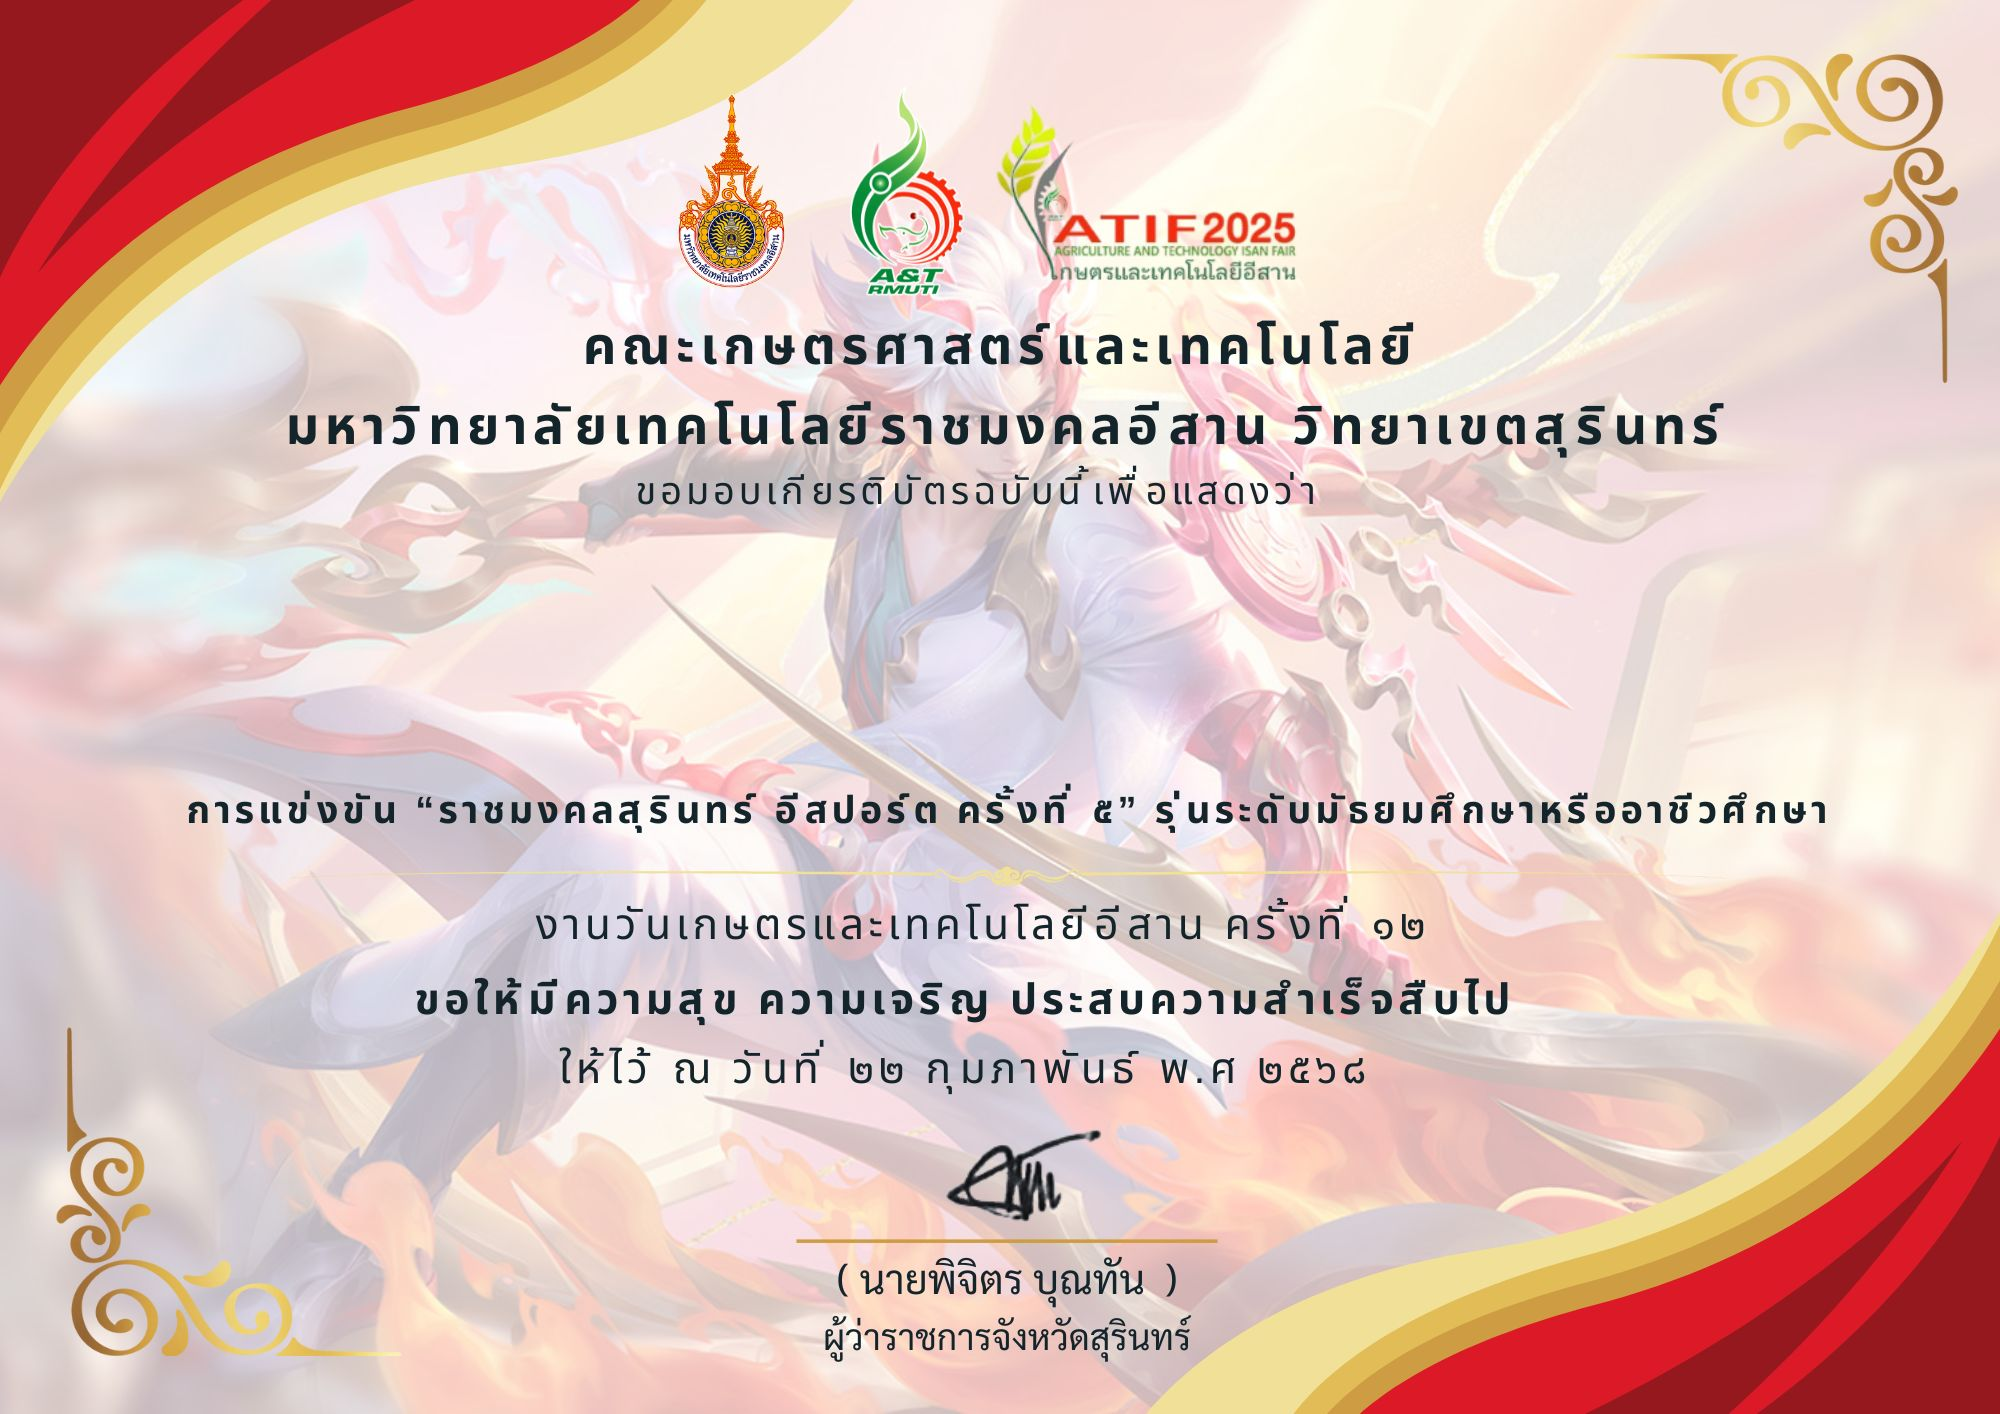
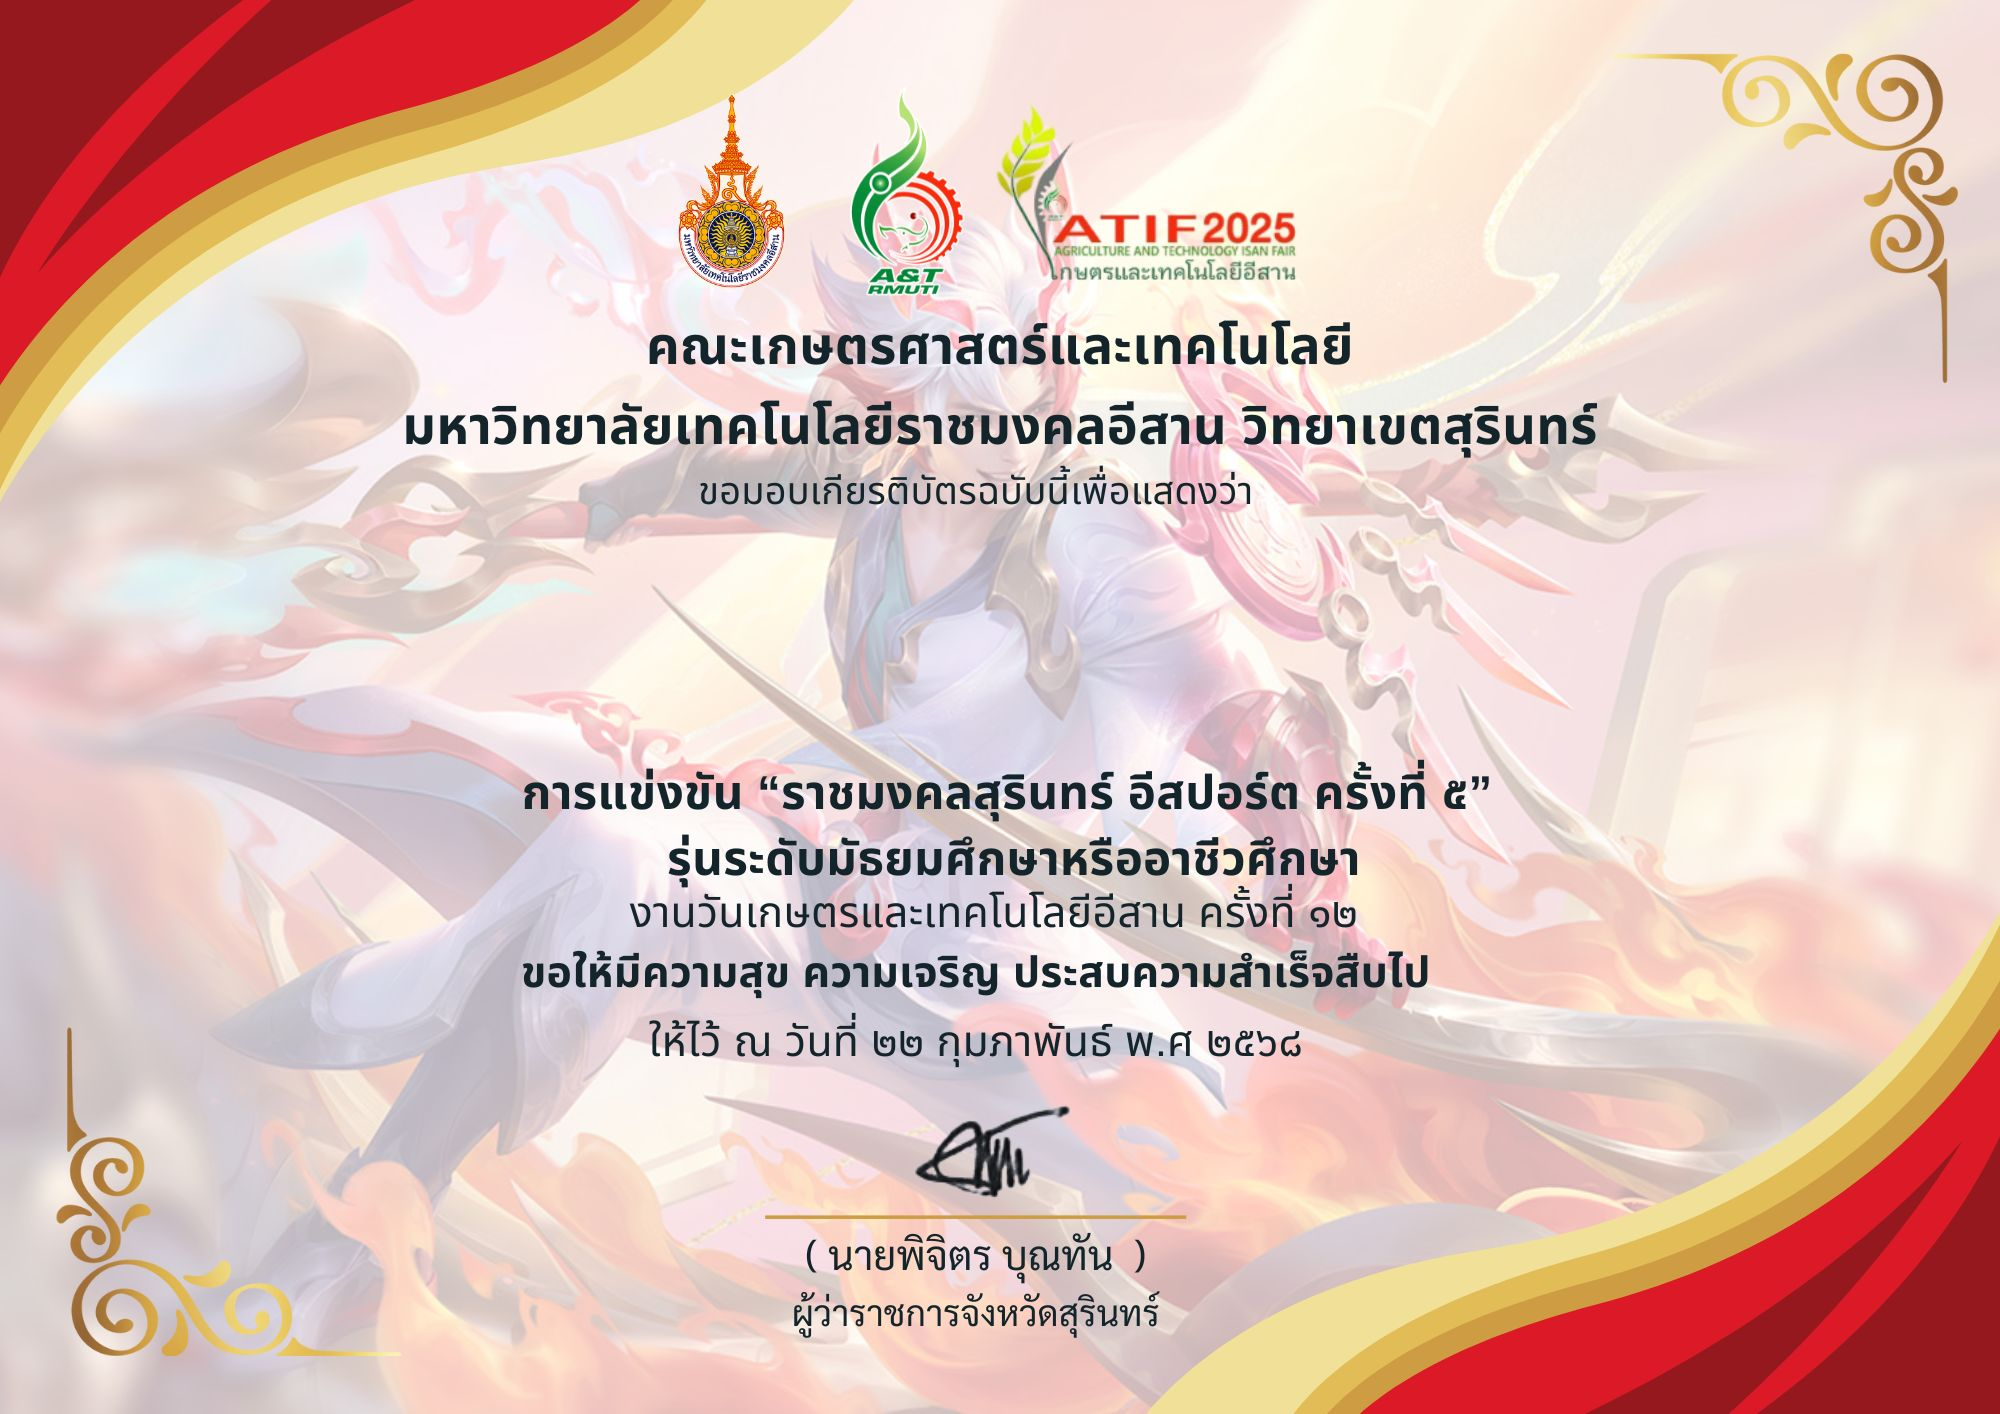
update

Changed region(s): [[0.093, 0.529, 0.93, 0.9646], [0.124, 0.2178, 0.868, 0.3734]]

diff --git a/backend-edit.php b/backend-edit.php
@@ -51,16 +51,16 @@ if ($_SERVER["REQUEST_METHOD"] == "POST") {
 
                 <div class="mb-3">
                 <label class="form-label">หัวข้อเกียรติบัตร</label>
-                <select name="certificate_type" class="form-control" required>
+                <select name="detail" class="form-control" required>
                     <option value="" disabled selected>กรุณาเลือกหัวข้อเกียรติบัตร</option>
-                    <option value="รางวัลชนะเลิศ" <?= isset($participant['certificate_type']) && $participant['certificate_type'] == 'รางวัลชนะเลิศ' ? 'selected' : '' ?>>รางวัลชนะเลิศ</option>
-                    <option value="รางวัลรองชนะเลิศ อันดับที่ 1" <?= isset($participant['certificate_type']) && $participant['certificate_type'] == 'รางวัลรองชนะเลิศ อันดับที่ 1' ? 'selected' : '' ?>>รางวัลรองชนะเลิศ อันดับที่ 1</option>
-                    <option value="รางวัลรองชนะเลิศ อันดับที่ 2" <?= isset($participant['certificate_type']) && $participant['certificate_type'] == 'รางวัลรองชนะเลิศ อันดับที่ 2' ? 'selected' : '' ?>>รางวัลรองชนะเลิศ อันดับที่ 2</option>
-                    <option value="รางวัลรองชนะเลิศ อันดับที่ 3" <?= isset($participant['certificate_type']) && $participant['certificate_type'] == 'รางวัลรองชนะเลิศ อันดับที่ 3' ? 'selected' : '' ?>>รางวัลรองชนะเลิศ อันดับที่ 3</option>
-                    <option value="ผู้เข้าร่วมการแข่งขัน" <?= isset($participant['certificate_type']) && $participant['certificate_type'] == 'ผู้เข้าร่วมการแข่งขัน' ? 'selected' : '' ?>>ผู้เข้าร่วมการแข่งขัน</option>
-                    <option value="ผู้ควบคุมทีม" <?= isset($participant['certificate_type']) && $participant['certificate_type'] == 'ผู้ควบคุมทีม' ? 'selected' : '' ?>>ผู้ควบคุมทีม</option>
-                    <option value="กรรมการจัดการแข่งขัน" <?= isset($participant['certificate_type']) && $participant['certificate_type'] == 'กรรมการจัดการแข่งขัน' ? 'selected' : '' ?>>กรรมการจัดการแข่งขัน</option>
-                    <option value="ผู้เข้าร่วมจัดการแข่งขัน" <?= isset($participant['certificate_type']) && $participant['certificate_type'] == 'ผู้เข้าร่วมจัดการแข่งขัน' ? 'selected' : '' ?>>ผู้เข้าร่วมจัดการแข่งขัน</option>
+                    <option value="รางวัลชนะเลิศ" <?= isset($participant['detail']) && $participant['detail'] == 'รางวัลชนะเลิศ' ? 'selected' : '' ?>>รางวัลชนะเลิศ</option>
+                    <option value="รางวัลรองชนะเลิศ อันดับที่ 1" <?= isset($participant['detail']) && $participant['detail'] == 'รางวัลรองชนะเลิศ อันดับที่ 1' ? 'selected' : '' ?>>รางวัลรองชนะเลิศ อันดับที่ 1</option>
+                    <option value="รางวัลรองชนะเลิศ อันดับที่ 2" <?= isset($participant['detail']) && $participant['detail'] == 'รางวัลรองชนะเลิศ อันดับที่ 2' ? 'selected' : '' ?>>รางวัลรองชนะเลิศ อันดับที่ 2</option>
+                    <option value="รางวัลรองชนะเลิศ อันดับที่ 3" <?= isset($participant['detail']) && $participant['detail'] == 'รางวัลรองชนะเลิศ อันดับที่ 3' ? 'selected' : '' ?>>รางวัลรองชนะเลิศ อันดับที่ 3</option>
+                    <option value="ผู้เข้าร่วมการแข่งขัน" <?= isset($participant['detail']) && $participant['detail'] == 'ผู้เข้าร่วมการแข่งขัน' ? 'selected' : '' ?>>ผู้เข้าร่วมการแข่งขัน</option>
+                    <option value="ผู้ควบคุมทีม" <?= isset($participant['detail']) && $participant['detail'] == 'ผู้ควบคุมทีม' ? 'selected' : '' ?>>ผู้ควบคุมทีม</option>
+                    <option value="กรรมการจัดการแข่งขัน" <?= isset($participant['detail']) && $participant['detail'] == 'กรรมการจัดการแข่งขัน' ? 'selected' : '' ?>>กรรมการจัดการแข่งขัน</option>
+                    <option value="ผู้เข้าร่วมจัดการแข่งขัน" <?= isset($participant['detail']) && $participant['detail'] == 'ผู้เข้าร่วมจัดการแข่งขัน' ? 'selected' : '' ?>>ผู้เข้าร่วมจัดการแข่งขัน</option>
                 </select>
                 </div>
 
@@ -72,10 +72,10 @@ if ($_SERVER["REQUEST_METHOD"] == "POST") {
                 <div class="mb-3">
                 <label class="form-label">รุ่นเกียรติบัตร</label>
     <select name="model" class="form-control" required>
-        <option value="รุ่นระดับมัธยมศึกษาหรืออาชีวศึกษา" <?= $participant['model'] == 'รุ่นระดับมัธยมศึกษาหรืออาชีวศึกษา' ? 'selected' : '' ?>>
+        <option value="model1" <?= $participant['model'] == 'รุ่นระดับมัธยมศึกษาหรืออาชีวศึกษา' ? 'selected' : '' ?>>
             แบบที่ 1 ( รุ่นระดับมัธยมศึกษาหรืออาชีวศึกษา )
         </option>
-        <option value="รุ่นระดับอุดมศึกษาหรือบุคคลทั่วไป" <?= $participant['model'] == 'รุ่นระดับอุดมศึกษาหรือบุคคลทั่วไป' ? 'selected' : '' ?>>
+        <option value="model2" <?= $participant['model'] == 'รุ่นระดับอุดมศึกษาหรือบุคคลทั่วไป' ? 'selected' : '' ?>>
             แบบที่ 2 (รุ่นระดับอุดมศึกษาหรือบุคคลทั่วไป)
         </option>
     </select>

diff --git a/backend-index.php b/backend-index.php
@@ -37,8 +37,8 @@
             <div class="mb-4">
                 <label class="form-label">เลือกรุ่นของเกียรติบัตร</label>
                 <select name="model" class="form-control" required>
-                    <option value="รุ่นระดับมัธยมศึกษาหรืออาชีวศึกษา">แบบที่ 1 ( รุ่นระดับมัธยมศึกษาหรืออาชีวศึกษา )</option>
-                    <option value="รุ่นระดับอุดมศึกษาหรือบุคคลทั่วไป">แบบที่ 2 (รุ่นระดับอุดมศึกษาหรือบุคคลทั่วไป)</option>
+                    <option value="model1">แบบที่ 1 ( รุ่นระดับมัธยมศึกษาหรืออาชีวศึกษา )</option>
+                    <option value="model2">แบบที่ 2 (รุ่นระดับอุดมศึกษาหรือบุคคลทั่วไป)</option>
                 </select>
             </div>
             <button type="submit" class="btn btn-primary w-100 py-2 mb-2"> ลงทะเบียน</button>

diff --git a/generate.php b/generate.php
@@ -66,8 +66,8 @@ if (!empty($name)) {
         $detailX = (imagesx($template) - $detailWidth) / 2; // คำนวณตำแหน่ง X ให้อยู่กลาง
 
         // คำนวณตำแหน่ง Y ให้ข้อความอยู่ในตำแหน่งที่ต้องการ
-        $nameY = 650;  // ปรับตำแหน่ง Y ของชื่อ
-        $detailY = 750;  // ปรับตำแหน่ง Y ของรายละเอียด
+        $nameY = 630;  // ปรับตำแหน่ง Y ของชื่อ
+        $detailY = 720;  // ปรับตำแหน่ง Y ของรายละเอียด
 
         // วาดข้อความ
         imagettftext($template, 65, 0, $nameX, $nameY, $color, $font, $name); // วาดชื่อ ใช้ฟอนต์ 65 พิกเซล
